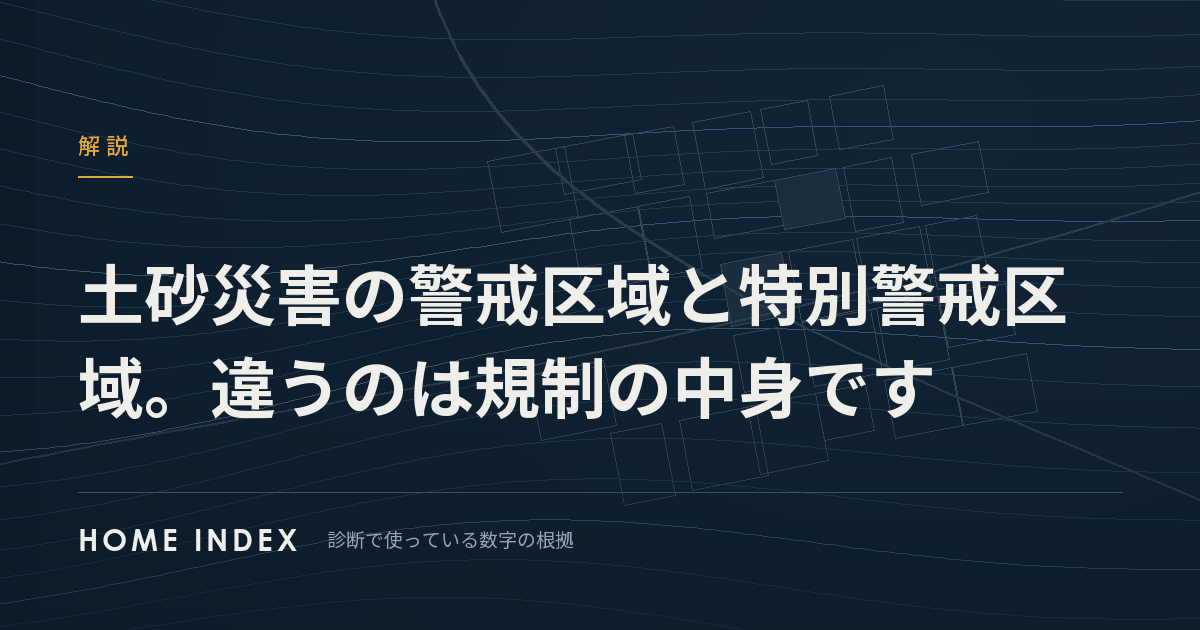
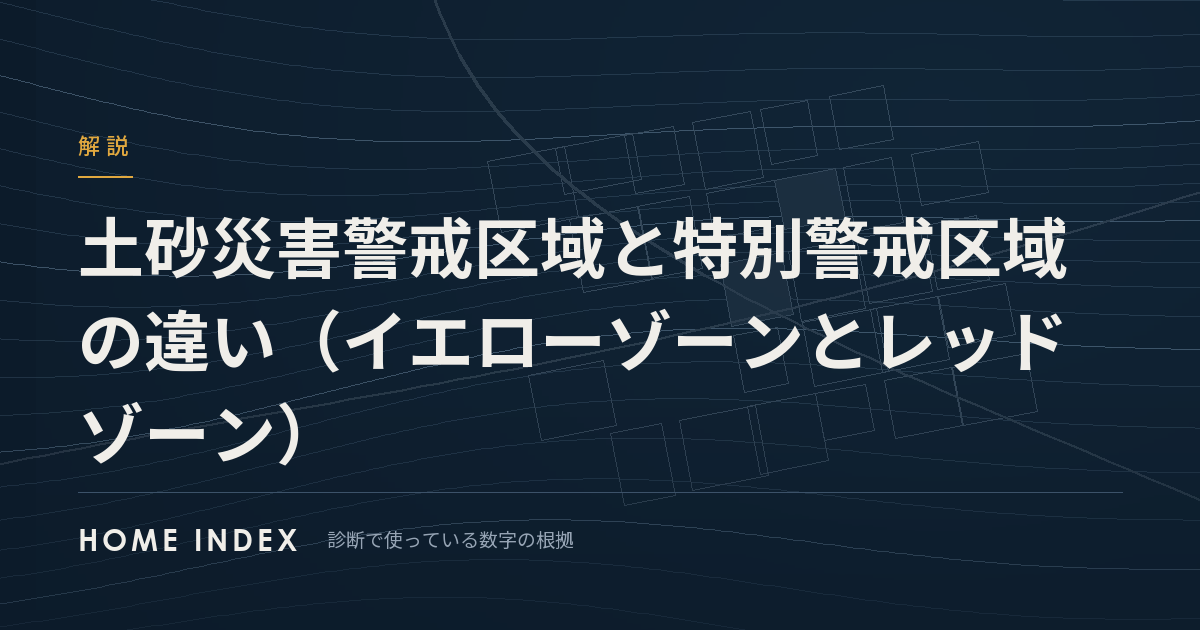
Answer the searches that already reach us, and count AI referrals
Search Console showed several pages sitting around 7th-14th for
queries they did not answer in their own words. The sediment guide now
says "違い" and names the yellow and red zones in its title and first
line; the seismic guide opens with a lookup of which ages are new
standard as of 2026; the debt-ratio guide names Flat 35 in its title
and adds, from the official conditions, that every loan counts toward
the ratio; the flood guide opens by saying what inundation depth is.
Its title, the one page that already earns clicks, is left alone.

Visits from AI answers get their own bucket. ChatGPT, Perplexity,
Claude and Copilot were lumped in with other sites, and Gemini was
counted as a search because its host contains "google.". AI hosts are
now checked first, and a utm_source tag from an AI tool counts too.

Changed region(s): [[0.0617, 0.3317, 0.8942, 0.754]]

diff --git a/src/guides.py b/src/guides.py
@@ -181,12 +181,12 @@ _FLOOD = Guide(
         "備え方も違います。区分の中身と、重要事項説明で説明されること・"
         "されないこと、この診断での減点の付け方をまとめました。"),
     published="2026-09-02",
-    updated="2026-09-02",
+    updated="2026-10-19",
     lead=(
-        "ハザードマップで色が付いていた、というだけでは判断材料になりません。"
-        "洪水浸水想定区域は浸水の深さで6段階に分かれていて、"
-        "<b>0.5m未満と3m以上とでは、意味がまったく違います。</b>"),
-    body="""
+        "浸水深は、浸水したときの地面から水面までの深さです。ハザードマップで色が"
+        "付いていた、というだけでは判断材料になりません。洪水浸水想定区域は浸水の深さで"
+        "6段階に分かれていて、<b>0.5m未満と3m以上とでは、意味がまったく違います。</b>"),
+body="""
 <h2>深さは6段階に分かれている</h2>
 <p>この診断が見ているのは、国土交通省 不動産情報ライブラリの洪水浸水
 想定区域（想定最大規模）です。区域に入っているかどうかだけでなく、
@@ -338,18 +338,30 @@ _REPAIR_FUND = Guide(
 
 _SHIN_TAISHIN = Guide(
     slug="shin-taishin-kenchiku-kakunin",
-    title="新耐震かどうかは築年では決まりません。境目は1981年6月の建築確認",
+    title="新耐震かどうかは築何年で分かるか。境目は1981年6月の建築確認です",
     description=(
-        "新耐震基準は1981年6月1日以降に建築確認を受けた建物に適用されます。"
-        "竣工年ではないため、1981年から1983年に完成した建物は築年だけでは"
-        "判定できません。確かめ方と、住宅ローン控除での扱いをまとめました。"),
+        "新耐震基準は1981年6月1日以降に建築確認を受けた建物です。2026年時点で、"
+        "築46年以上は旧耐震、築43〜45年は築年だけでは判定できず、築42年以下はほぼ新耐震です。"
+        "確かめ方と、住宅ローン控除での扱いもまとめました。"),
     published="2026-09-02",
-    updated="2026-09-02",
+    updated="2026-10-19",
     lead=(
         "「1982年築だから新耐震」とは、本当は言い切れません。基準になるのは"
         "竣工した日ではなく、<b>建築確認を受けた日</b>だからです。"
         "1981年から1983年に完成した建物は、築年だけでは判定できません。"),
     body="""
+<h2>築年数で見ると（2026年時点）</h2>
+<table>
+<tr><th>完成した年</th><th>築年数（2026年）</th><th>新耐震か</th></tr>
+<tr><td>1980年以前</td><td>築46年以上</td><td>旧耐震</td></tr>
+<tr><td>1981〜1983年</td><td>築43〜45年</td><td>築年だけでは分からない。確認済証の日付で決まる</td></tr>
+<tr><td>1984年以降</td><td>築42年以下</td><td>ほぼ新耐震</td></tr>
+</table>
+<p>たとえば築36年なら1990年の完成で、新耐震です。「ほぼ」と書いたのは、大規模な
+マンションは工期が長く、1981年5月までに確認を受けて1984年以降に完成した建物が
+無いとは言い切れないからです。築年数は年が変わると1つずつ増えるので、完成した年の
+ほうで覚えてください。</p>
+
 <h2>基準日は、建築確認を受けた日</h2>
 <p>新耐震基準は、1981年6月1日以降に建築確認を受けた建物に適用されます。
 確認を受けた日であって、工事が終わった日ではありません。</p>
@@ -404,13 +416,13 @@ _SHIN_TAISHIN = Guide(
 
 _BURDEN = Guide(
     slug="hensai-futanritsu",
-    title="返済負担率の基準は30%と35%。年収400万円で線が変わります",
+    title="フラット35の返済負担率は30%と35%。年収400万円で線が変わります",
     description=(
-        "住宅ローンの返済負担率は、年収400万円未満なら30%以下、400万円以上なら"
-        "35%以下が一つの基準です。マンションは管理費と修繕積立金を足さないと"
-        "実態を外します。この診断での見方をまとめました。"),
+        "フラット35の返済負担率（総返済負担率）は、年収400万円未満なら30%以下、"
+        "400万円以上なら35%以下です。返済額には自動車ローンなどほかの借入れも含みます。"
+        "マンションの管理費の扱いと、この診断での見方をまとめました。"),
     published="2026-09-02",
-    updated="2026-09-02",
+    updated="2026-10-19",
     lead=(
         "返済負担率は、年間の返済額が年収の何％にあたるかです。基準は一つでは"
         "なく、<b>年収400万円を境に30%と35%で切り替わります。</b>"
@@ -421,6 +433,11 @@ _BURDEN = Guide(
 30%以下、400万円以上で35%以下と定められています。民間の金融機関はそれぞれ
 基準を持っていますが、この二つの数字が話の出発点になることが多いので、
 この診断でも同じ線を使っています。</p>
+<p>ここでいう返済額は、フラット35の分だけではありません。ほかの住宅ローン、
+自動車ローン、教育ローン、カードローン（キャッシングやリボ払いを含む）など、
+<b>すべての借入れ</b>の年間返済額を合計して、年収で割ります。収入合算者の分も
+含みます。</p>
+<p class="sub">出典：住宅金融支援機構【フラット35】ご利用条件（2026年10月19日確認）</p>
 <p>ただし、基準を満たすことと、無理なく返せることは別です。上限は
 貸す側が審査に使う線であって、生活の余裕を測ったものではありません。</p>
 
@@ -842,18 +859,18 @@ _SEDIMENT = Guide(
     slug="dosha-saigai-keikai-kuiki",
     cta2_href="/land",
     cta2_text="土地を診断する（注文住宅）",
-    title="土砂災害の警戒区域と特別警戒区域。違うのは規制の中身です",
+    title="土砂災害警戒区域と特別警戒区域の違い（イエローゾーンとレッドゾーン）",
     description=(
-        "土砂災害警戒区域（イエロー）と特別警戒区域（レッド）は、土砂災害防止法の"
-        "別の条文で指定されます。建築や開発の制限、重要事項説明での扱い、"
-        "この診断での減点の違いをまとめました。"),
+        "土砂災害警戒区域（イエローゾーン）と特別警戒区域（レッドゾーン）の違いは、"
+        "建築と開発の制限があるかどうかです。指定する条文、重要事項説明での扱い、"
+        "この診断での減点の違いもまとめました。"),
     published="2026-09-05",
-    updated="2026-09-05",
+    updated="2026-10-19",
     lead=(
-        "イエローとレッドは、危険度の色分けではありません。<b>警戒区域には建築の"
-        "制限がなく、特別警戒区域にはあります。</b>指定の根拠も、土砂災害防止法の"
-        "第7条と第9条で別々です。"),
-    body="""
+        "違いは、建築の制限があるかどうかです。<b>警戒区域（イエローゾーン）には建築の"
+        "制限がなく、特別警戒区域（レッドゾーン）にはあります。</b>色の違いは危険度の"
+        "順位ではありません。指定の根拠も、土砂災害防止法の第7条と第9条で別々です。"),
+body="""
 <h2>特別警戒区域は、警戒区域の内側にある</h2>
 <p>どちらも都道府県知事が指定します。警戒区域は、崩壊などが起きたときに
 住民等の生命または身体に危害が生ずるおそれがあり、警戒避難体制を特に

diff --git a/src/metrics.py b/src/metrics.py
@@ -78,6 +78,9 @@ EVENTS = {
     "ref_instagram": "Instagramから来た",
     "ref_tiktok":   "TikTokから来た",
     "ref_search":   "検索から来た",
+    # AIの回答に載ったリンクから来た。AEOが効いているかは、ここでしか分からない
+    # （Search Console には出ない）。2026-10-19 から数えている。
+    "ref_ai":       "AIの回答から来た",
     "ref_other":    "他のサイトから来た",
     "ref_none":     "リンク元なし（直接・アプリ内・巡回）",
 }
@@ -91,7 +94,13 @@ EVENTS = {
 #
 # これまで Instagram は Threads と同じ枠だった。**過去の ref_threads には
 # Instagram 由来が混ざっている**ので、分けた日より前の数字は比べられない。
+# **AIを検索より先に置く。** gemini.google.com は「google.」を含むので、
+# 後ろに置くと Gemini から来た人が「検索から来た」に混ざる（2026-10-19まで
+# そうなっていた）。
 REF_BUCKETS = (
+    ("ref_ai",        ("chatgpt.com", "chat.openai.com", "perplexity.ai",
+                       "gemini.google.com", "bard.google.com",
+                       "copilot.microsoft.com", "claude.ai")),
     ("ref_x",         ("x.com", "twitter.com", "t.co")),
     ("ref_threads",   ("threads.net", "threads.com")),
     ("ref_instagram", ("instagram.com",)),
@@ -100,12 +109,21 @@ REF_BUCKETS = (
 )
 
 
-def ref_bucket(referrer: str, own_host: str) -> str | None:
+# ChatGPT などは、リンクに utm_source を付けて送ってくることがある。リンク元を
+# 送らない設定の利用者でも、こちらで拾える。値は枠に丸めるだけで残さない。
+AI_UTM = ("chatgpt", "openai", "perplexity", "gemini", "copilot", "claude")
+
+
+def ref_bucket(referrer: str, own_host: str,
+               utm_source: str = "") -> str | None:
     """リンク元を枠の名前にする。同じサイト内の移動なら None。
 
     None を返すのは「来訪ではない」という意味。トップ→診断のような
     内部移動まで数えると、どこから来た人かが分からなくなる。
     """
+    utm = (utm_source or "").strip().lower()
+    if utm and any(a in utm for a in AI_UTM):
+        return "ref_ai"
     ref = (referrer or "").strip()
     if not ref:
         return "ref_none"

diff --git a/app.py b/app.py
@@ -797,7 +797,8 @@ def _seen(name: str) -> None:
         return
     metrics.bump(name)
     bucket = metrics.ref_bucket(request.headers.get("Referer") or "",
-                               request.host or "")
+                               request.host or "",
+                               request.args.get("utm_source") or "")
     if bucket:
         metrics.bump(bucket)
 
@@ -3442,8 +3443,8 @@ _METRIC_GROUPS = (
                     "paste_used", "saved")),
     ("会員とPRO", ("signup", "plan_view", "pro_cta", "plan_confirm",
                    "checkout", "pro_start", "pro_cancel")),
-    ("どこから来たか", ("ref_x", "ref_threads", "ref_instagram", "ref_tiktok",
-                        "ref_search", "ref_other", "ref_none")),
+    ("どこから来たか", ("ref_search", "ref_ai", "ref_x", "ref_threads",
+                        "ref_instagram", "ref_tiktok", "ref_other", "ref_none")),
     ("不具合", ("mail_failed",)),
 )
 
@@ -3664,7 +3665,9 @@ table.mx-ev thead th{{font-size:12px;color:#64748b;font-weight:600}}
  <h2 style="margin:26px 0 6px">どこから来たか</h2>
  {ref_rows}
  <p class="sub" style="margin:6px 0 0">Instagram を Threads と分けて数え始めたのは
-  2026-09-18 です。それより前の Threads には Instagram が混ざっています。</p>
+  2026-09-18 です。それより前の Threads には Instagram が混ざっています。
+  AIの回答から来た人を分けて数え始めたのは 2026-10-19 です。それより前は、
+  Gemini は「検索」に、ChatGPT などは「他のサイト」に混ざっています。</p>
 
  <div class="note" style="margin:18px 0">
   <b>入力画面 → 診断</b>　{rate("diag_kodate", "view_buy")}（戸建）／

diff --git a/tests/test_metrics.py b/tests/test_metrics.py
@@ -405,3 +405,28 @@ def test_other_people_are_still_counted(env, monkeypatch):
     _human(c2, "/buy")
     assert env.metrics.totals(1)["view_buy"] == 2
 
+
+# ---- AIの回答から来た人（2026-10-19）---------------------------------------
+
+def test_an_ai_answer_is_its_own_bucket(env):
+    b = env.metrics.ref_bucket
+    for ref in ("https://chatgpt.com/", "https://www.perplexity.ai/search/x",
+                "https://claude.ai/chat/1", "https://copilot.microsoft.com/"):
+        assert b(ref, "homeindex.jp") == "ref_ai", ref
+
+
+def test_gemini_is_not_counted_as_a_search(env):
+    """gemini.google.com は「google.」を含む。AIを先に見ないと検索に混ざる。"""
+    b = env.metrics.ref_bucket
+    assert b("https://gemini.google.com/app", "homeindex.jp") == "ref_ai"
+    assert b("https://www.google.com/", "homeindex.jp") == "ref_search"
+
+
+def test_an_ai_link_without_a_referrer_is_caught_by_its_tag(env):
+    b = env.metrics.ref_bucket
+    assert b("", "homeindex.jp", "chatgpt.com") == "ref_ai"
+    assert b("", "homeindex.jp", "newsletter") == "ref_none"
+    c = env.app.app.test_client()
+    c.get("/?utm_source=chatgpt.com", headers=_UA)
+    assert env.metrics.totals(1)["ref_ai"] == 1
+
